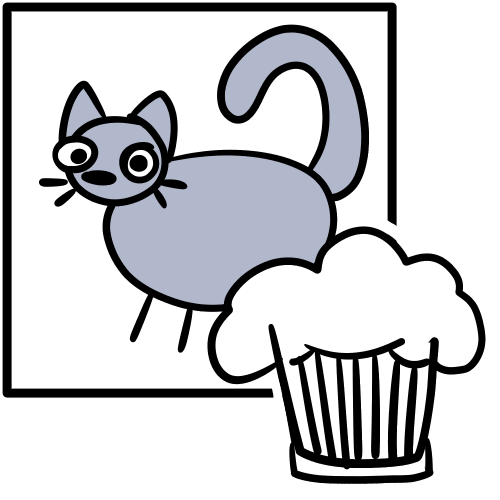
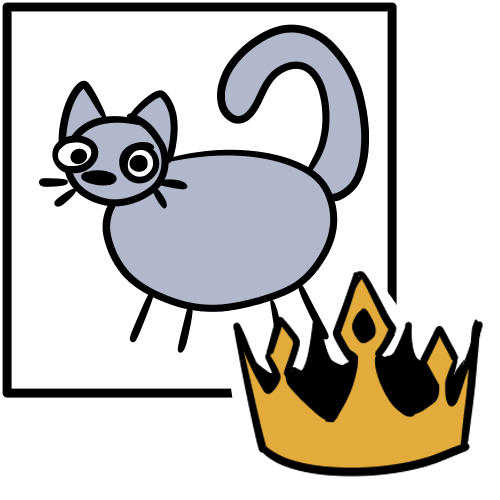
added cemetery and recorded vid but the vid is kind of trash but wtv

Changed region(s): [[0.39, 0.45, 0.99, 0.99]]

diff --git a/Display.java b/Display.java
@@ -257,6 +257,18 @@ public class Display implements ActionListener{
             System.out.println("*****END*****");
         });
         layeredPane.add(listGrads);
+
+        JButton listDeaths = new JButton("CEMETERY");
+        listDeaths.setBounds(700, 480, 200, 20);
+        listDeaths.addActionListener(e -> {
+            System.out.println("****RIP****");
+            for (Pet g: player.getDeaths()) {
+                System.out.println(g);
+                System.out.println();
+            }
+            System.out.println("*****END*****");
+        });
+        layeredPane.add(listDeaths);
     }
 
     public void reloadPetDisplay() {

diff --git a/Player.java b/Player.java
@@ -49,6 +49,7 @@ class Player {
     public ArrayList<Task> getTasks() {return tasks;}
     public ArrayList<Pet> getPets() {return pets;}
     public ArrayList<Pet> getGraduates() {return graduates;}
+    public ArrayList<Pet> getDeaths() {return deaths;}
 
     public void AddTask(Task newTask) {
         tasks.add(newTask);
